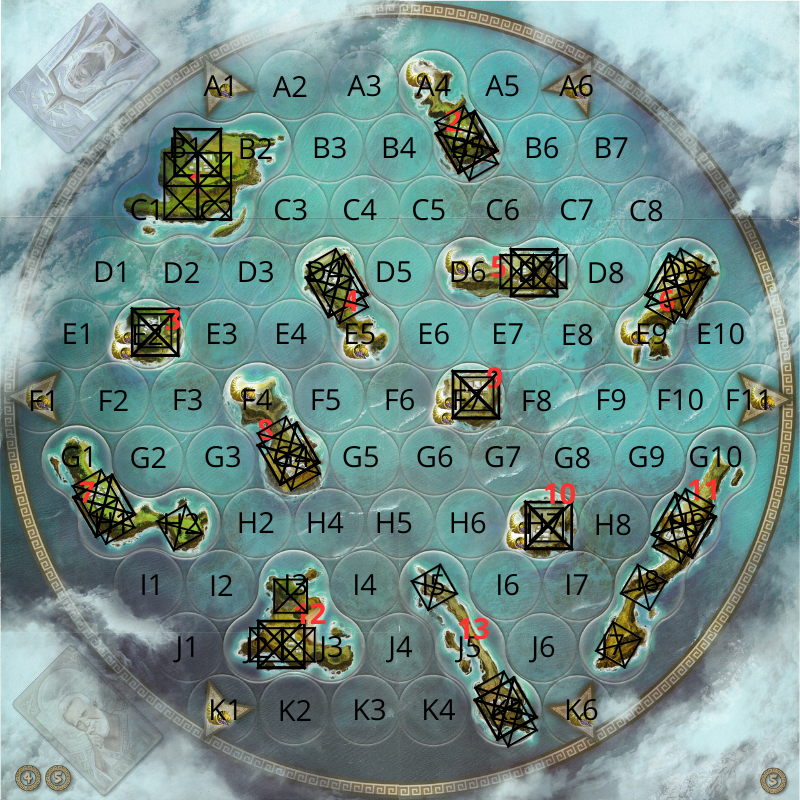
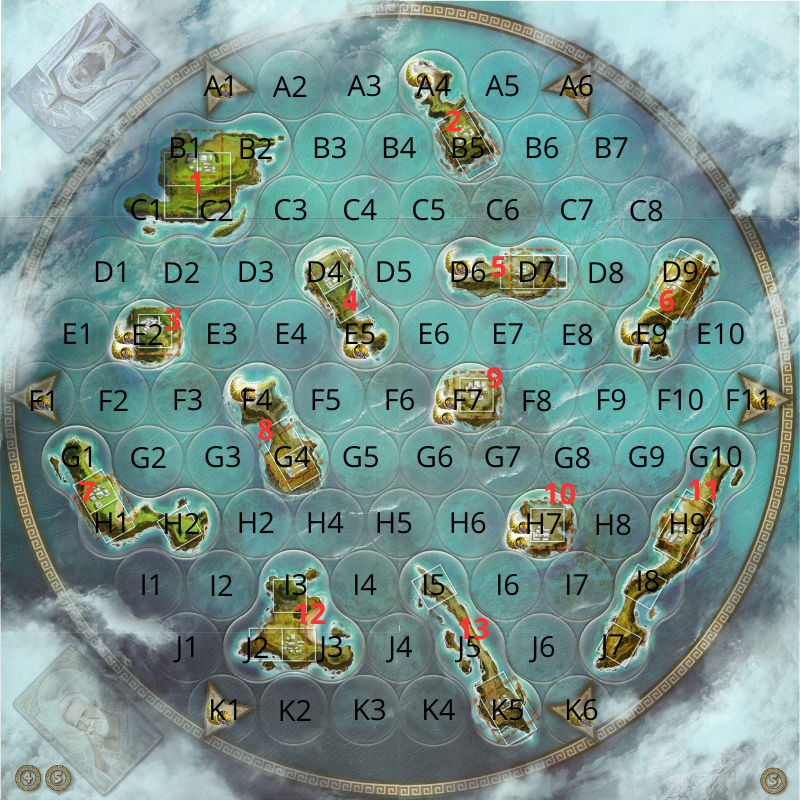
Fix all locations and bugs

diff --git a/game/gui/views/BoardView.py b/game/gui/views/BoardView.py
@@ -41,19 +41,19 @@ class BoardView(AbstractView):
             for _player in ["p1", "p2", "p3", "p4", "p5"]
         }
         self._warriors_icon = {
-            _player: self.load_and_scale((Config.app.boards_items / "wariors" / f"{_player}.png"), [80, 80])
+            _player: self.load_and_scale((Config.app.boards_items / "wariors" / f"{_player}.png"), [60, 60])
             for _player in ["p1", "p2", "p3", "p4", "p5"]
         }
         self.ownership_icon = {
-            _player: self.load_and_scale((Config.app.boards_items / "ownership" / f"{_player}.png"), [80, 80])
+            _player: self.load_and_scale((Config.app.boards_items / "ownership" / f"{_player}.png"), [40, 40])
             for _player in ["p1", "p2", "p3", "p4", "p5"]
         }
         self._ships_icon = {
-            _player: self.load_and_scale((Config.app.boards_items / "ships" / f"{_player}.png"), [80, 80])
+            _player: self.load_and_scale((Config.app.boards_items / "ships" / f"{_player}.png"), [60, 60])
             for _player in ["p1", "p2", "p3", "p4", "p5"]
         }
         self._multiplayer_icon = {
-            i: self.load_and_scale((Config.app.boards_items / "multiplier" / f"{i}.png"), [30, 30])
+            i: self.load_and_scale((Config.app.boards_items / "multiplier" / f"{i}.png"), [20, 20])
             for i in range(1, 7)
         }
         self._play_order = self.load_and_scale((Config.app.boards_items / "order.png"), [60, 250])
@@ -61,7 +61,7 @@ class BoardView(AbstractView):
             building: self.load_and_scale((Config.app.building_icons / f"{building}.png"), [40, 40])
             for building in ["atena", "ares", "posejdon", "zeus", "metro"]
         }
-        self._income_icon = self.load_and_scale((Config.app.boards_items / "rog.png"), [40, 40])
+        self._income_icon = self.load_and_scale((Config.app.boards_items / "rog.png"), [30, 30])
 
     def update_sprite(self):
         self.load_warriors()
@@ -84,18 +84,18 @@ class BoardView(AbstractView):
         self.build_nav_bar()
         self.screen.blit(self._boards[str(DataCache.get_value("num_of_players"))], [60, 0])
         self.screen.blit(self._play_order, [1140, 0])
-        # self.load_entity_to_buy()
-        # self.delete_entity()
-        # self.add_building()
-        # self.load_ships()
-        # self.load_income()
-        # self.update_entity()
-        # self.update_sprite()
-        # self.build_message_box()
-        # self.buy_card_button()
-        # if DataCache.get_value("act_stage") == GameState.BOARD:
-        #     self.next_player_button()
-        self.draw_all_points()
+        self.load_entity_to_buy()
+        self.delete_entity()
+        self.add_building()
+        self.load_ships()
+        self.load_income()
+        self.update_entity()
+        self.update_sprite()
+        self.build_message_box()
+        self.buy_card_button()
+        if DataCache.get_value("act_stage") == GameState.BOARD:
+            self.next_player_button()
+        # self.draw_all_points()
 
     def build_message_box(self):
         message = DataCache.get_value("message_board")
@@ -199,7 +199,6 @@ class BoardView(AbstractView):
     def load_income(self):
         _income_points = Config.boards.income_point[str(DataCache.get_value("num_of_players"))]
         income_status = DataCache.get_value("income_status")
-        _if_new = False
         for id, income_config in income_status.items():
             if id in self._loaded_entities:
                 continue
@@ -241,7 +240,6 @@ class BoardView(AbstractView):
                 )
                 self.building_sprite.add(building)
                 self._loaded_entities.append(building_id)
-                print("bbb")
                 _if_new = True
         if _if_new:
             for building in self.building_sprite:
@@ -329,7 +327,6 @@ class BoardView(AbstractView):
             True
         )
         self.building_sprite.add(base_building)
-        print("load_posejdon")
 
     def load_athena(self):
         base_building = BuildingEntity(
@@ -340,7 +337,6 @@ class BoardView(AbstractView):
             True
         )
         self.building_sprite.add(base_building)
-        print("loading atena")
 
     def load_zeus(self):
         base_building = BuildingEntity(
@@ -351,7 +347,6 @@ class BoardView(AbstractView):
             True
         )
         self.building_sprite.add(base_building)
-        print("loading zeus")
 
     def load_appollon(self):
         base_income = IncomeEntity(
@@ -366,7 +361,7 @@ class BoardView(AbstractView):
         self.income_sprite.add(base_income)
 
     def load_small_apollon(self):
-        print("Small Appollon")
+        pass
 
     def next_player_button(self):
         next_player_button = Button(

diff --git a/game/managers/board_sub_managers/ShipEntityManager.py b/game/managers/board_sub_managers/ShipEntityManager.py
@@ -51,6 +51,7 @@ class ShipEntityManager(EntityManager):
 
     @property
     def valid_entity_move(self) -> bool:
+        self.available_posejdon_jumps = DataCache.get_value("posejdon_move")
         return (
             self.available_posejdon_jumps > 0
             or self._coins[self.entity_status[self.moving_entity_id]["owner"]]
@@ -60,6 +61,14 @@ class ShipEntityManager(EntityManager):
 
     def entity_move_prepare(self):
         if self.available_posejdon_jumps == 0:
+            if self._coins[self.entity_status[self.moving_entity_id]["owner"]] == 0:
+                self.send_update(
+                    self.moving_entity_id,
+                    self.entities_points,
+                    self.entity_status[self.moving_entity_id]["num_of_entities"],
+                    self.entity_status[self.moving_entity_id]["field"]
+                )
+                return
             self._coins[self.entity_status[self.moving_entity_id]["owner"]] -= 1
             DataCache.set_value("posejdon_move", 2)
         else:
@@ -99,9 +108,17 @@ class ShipEntityManager(EntityManager):
                     "num_of_entities": 1,
                     "field": self.new_place
                 }
+                self.field_status[self.new_place]["num_of_entities"] = 1
+                self.field_status[self.new_place]["owner"] = self._act_player
             self._coins[self._act_player] -= DataCache.get_value("new_entity_price")
-
             if DataCache.get_value("new_entity_price") <= 3:
                 new_price = int(self.moving_entity_id) * (-1) + 1
 
                 DataCache.set_value("new_entity_price", new_price)
+        else:
+            update_entity = DataCache.get_value("entity_update")
+            update_entity[self.moving_entity_id] = {
+                "location": Config.boards.new_special_event_loc,
+                "num_of_entities": 1
+            }
+            DataCache.set_value("entity_update", update_entity)

diff --git a/game/DataCache.py b/game/DataCache.py
@@ -9,12 +9,12 @@ from .enums.GameState import GameState
 
 class DataCache:
 
-    _cache_sections: list = [
-        RollCacheSection,
-        CommonCache,
-        PlayerCache,
-        BoardCacheSection
-    ]
+    _cache_sections: dict = {
+        GameState.ROLL: RollCacheSection,
+        "Common": CommonCache,
+        "Player": PlayerCache,
+        GameState.BOARD: BoardCacheSection
+    }
 
     AvailableSections = Literal[
         "game_config",
@@ -30,7 +30,6 @@ class DataCache:
         "bids_value",
         "temp_bid",
         "bid_order",
-        "bids_order",
         "heros_per_row",
         "left_heros",
         "play_order",
@@ -64,11 +63,11 @@ class DataCache:
     @classmethod
     def initialize_cache(cls):
         cls._data_cache = {
-            key: value for cache_cls in cls._cache_sections for (key, value) in cache_cls._data_cache.items()
+            key: value for cache_cls in cls._cache_sections.values() for (key, value) in cache_cls._data_cache.items()
         }
 
         cls._cache_data_functions = {
-            key: value for cache_cls in cls._cache_sections for (key, value) in cache_cls._cache_data_functions.items()
+            key: value for cache_cls in cls._cache_sections.values() for (key, value) in cache_cls._cache_data_functions.items()
         }
 
     @staticmethod
@@ -84,3 +83,8 @@ class DataCache:
             return DataCache._data_cache.get(key, None)
         else:
             raise AttributeError(f"'{type(DataCache).__name__}' object has no attribute '{key}'")
+
+    @classmethod
+    def reset_stage(cls, stage):
+        for _cache_setting, _cache_value in cls._cache_sections[stage]._base_values.items():
+            cls._data_cache[_cache_setting] = _cache_value

diff --git a/game/managers/board_sub_managers/PrepareStageManger.py b/game/managers/board_sub_managers/PrepareStageManger.py
@@ -4,7 +4,8 @@ from .AbstractSubManager import AbstractSubManager
 from ...enums.GameState import GameState
 from ...DataCache import DataCache
 from ...gui.common.Config import Config
-
+from ...dataclasses.FieldDataClass import Water, Island
+from ...dataclasses.EntitiesDataClass import Entity
 
 class PrepareStageManager(AbstractSubManager):
 
@@ -136,3 +137,31 @@ class PrepareStageManager(AbstractSubManager):
 
     def save_cache_values(self):
         return super().save_cache_values()
+
+    def end_stage(self):
+        _coins = DataCache.get_value("coins")
+        income_pre_round = self.calculate_income(
+            DataCache.get_value("islands_status"),
+            DataCache.get_value("water_status")
+        )
+        for player, income in income_pre_round.items():
+            _coins[player] += income
+        DataCache.set_value("coins", _coins)
+        DataCache.set_value("act_stage", GameState.ROLL)
+        DataCache.reset_stage(GameState.ROLL)
+
+    @staticmethod
+    def calculate_income(_island_status, _water_status):
+        players_name = {f"p{num}": 0 for num in range(1, 6)}
+        for filed_status in [_island_status, _water_status]:
+            for _, field_data in filed_status.items():
+                if field_data["owner"] in players_name.keys():
+                    if "income" in field_data.keys():
+                        players_name[field_data["owner"]] += field_data["income"]
+                    players_name[field_data["owner"]] += field_data["base_income"]
+        return players_name
+
+    @staticmethod
+    def check_win():
+        islands_status = DataCache.get_value("islands_status")
+        for island_id, island_data in islands_status:

diff --git a/game/managers/board_sub_managers/EntityManager.py b/game/managers/board_sub_managers/EntityManager.py
@@ -106,7 +106,15 @@ class EntityManager(AbstractSubManager):
                         "num_of_entities": self.entity_status[self.moving_entity_id]["num_of_entities"]
                     }
                     DataCache.set_value("entity_update", update_entity)
-                    logging.info("No enough money to move %s!", self.entity_type)
+                    logging.info("Wrong entity move", self.entity_type)
+            else:
+                update_entity = DataCache.get_value("entity_update")
+                update_entity[self.moving_entity_id] = {
+                    "location": self.entities_points[self.entity_status[self.moving_entity_id]["field"]],
+                    "num_of_entities": self.entity_status[self.moving_entity_id]["num_of_entities"]
+                }
+                DataCache.set_value("entity_update", update_entity)
+                logging.info("No enough money to move %s!", self.entity_type)
             self.clear_message()
 
     @abstractmethod

diff --git a/game/managers/board_sub_managers/WarriorEntityManager.py b/game/managers/board_sub_managers/WarriorEntityManager.py
@@ -80,12 +80,17 @@ class WarriorEntityManager(EntityManager):
                         self.new_place
                     )
 
-            print(DataCache.get_value("new_entity_price"))
             self._coins[self._act_player] -= DataCache.get_value("new_entity_price")
 
             if DataCache.get_value("new_entity_price") <= 4:
                 new_price = int(self.moving_entity_id) * (-1) + 1
                 if new_price == 1:
                     new_price += 1
-                print("new price", new_price)
                 DataCache.set_value("new_entity_price", new_price)
+        else:
+            update_entity = DataCache.get_value("entity_update")
+            update_entity[self.moving_entity_id] = {
+                "location": Config.boards.new_special_event_loc,
+                "num_of_entities": 1
+            }
+            DataCache.set_value("entity_update", update_entity)

diff --git a/game/DataCacheSection/RollCache.py b/game/DataCacheSection/RollCache.py
@@ -21,14 +21,35 @@ class RollCacheSection:
             "row_5": ""
         },
         "temp_bid": 0,
-        "bids_order": [],
         "left_heros": []
     }
 
     _cache_data_functions: dict = {
         "bid_order": lambda x: x,
-        "bids_value": lambda x: x,
         "temp_bid": lambda x: x,
         "heros_per_row": lambda x: x,
         "left_heros": lambda x: x
+    }
+
+    _base_values: dict = {
+        "heros_per_row": {
+            "row_1": "",
+            "row_2": "",
+            "row_3": "",
+            "row_4": "",
+            "row_5": ""
+        },
+        "temp_bid": 0,
+        "bids_value": {
+            "row_1": {
+            },
+            "row_2": {
+            },
+            "row_3": {
+            },
+            "row_4": {
+            },
+            "row_5": []
+        },
+        "bid_order": [],
     }

diff --git a/game/managers/BoardManager.py b/game/managers/BoardManager.py
@@ -1,4 +1,5 @@
 import math
+import logging
 
 import pygame
 from pygame.event import Event
@@ -38,10 +39,10 @@ class BoardManager(AbstractManager):
             return
         if DataCache.get_value("play_order") and not self._act_player:
             self.StageManager.define_player_hero()
-            self.entity_manager["income"].calculate_income()
             self.read_cache_values()
         if not DataCache.get_value("play_order") and not self._act_player:
-            print("round ended!!!!")
+            logging.info("Rodund end, calcualtin income and reset heros roll!")
+            self.StageManager.end_stage()
         if event.type == EventConfig.UPDATE_WARRIOR_POS:
             self.entity_manager["warrior"].valid_new_position()
         if event.type == EventConfig.UPDATE_SHIP_POS:

diff --git a/game/managers/board_sub_managers/AppollonManager.py b/game/managers/board_sub_managers/AppollonManager.py
@@ -74,13 +74,3 @@ class AppollonManager(AbstractManager):
         return math.sqrt(
             (dest_loc[0] - point_loc[0])**2 + (dest_loc[1] - point_loc[1])**2
         )
-
-    def calculate_income(self):
-        self.read_cache_values()
-        players_name = {f"p{num}": 0 for num in range(1, 6)}
-        for filed_status in [self._island_status, self._water_status]:
-            for _, field_data in filed_status.items():
-                if field_data["owner"] in players_name.keys():
-                    if "income" in field_data.keys():
-                        players_name[field_data["owner"]] += field_data["income"]
-                    players_name[field_data["owner"]] += field_data["base_income"]

diff --git a/game/gui/components/entities/WarriorEntity.py b/game/gui/components/entities/WarriorEntity.py
@@ -32,7 +32,7 @@ class WarriorEntity(AbstractEntity):
 
     @property
     def icon_size(self) -> int:
-        return 40
+        return 30
 
     def validate_move(self):
         loc = (self._act_location[0] + self.icon_size, self._act_location[1] + self.icon_size)

diff --git a/game/gui/components/entities/IncomeEntity.py b/game/gui/components/entities/IncomeEntity.py
@@ -30,7 +30,7 @@ class IncomeEntity(AbstractEntity):
 
     @property
     def icon_size(self) -> int:
-        return 20
+        return 15
 
     def validate_move(self):
         loc = (self._act_location[0] + self.icon_size, self._act_location[1] + self.icon_size)

diff --git a/game/gui/components/entities/ShipEntity.py b/game/gui/components/entities/ShipEntity.py
@@ -32,7 +32,7 @@ class ShipEntity(AbstractEntity):
 
     @property
     def icon_size(self) -> int:
-        return 40
+        return 30
 
     def validate_move(self):
         loc = (self._act_location[0] + self.icon_size, self._act_location[1] + self.icon_size)
